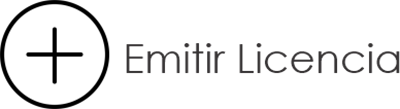
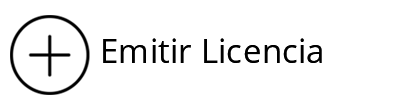
Ui principal (#2)
* Panel tareas rediseñado

* Panel inicio y estilo de windows

diff --git a/src/interfacesGraficas/PanelEmitirLicencia.java b/src/interfacesGraficas/PanelEmitirLicencia.java
@@ -1,6 +1,7 @@
 package interfacesGraficas;
 
 import java.awt.CardLayout;
+import java.awt.Color;
 import java.awt.Dimension;
 import java.awt.Font;
 import java.awt.GridBagConstraints;
@@ -13,6 +14,7 @@ import java.awt.event.MouseAdapter;
 import java.awt.event.MouseEvent;
 import java.util.List;
 
+import javax.swing.ButtonModel;
 import javax.swing.JButton;
 import javax.swing.JComboBox;
 import javax.swing.JFrame;
@@ -24,6 +26,9 @@ import javax.swing.JTable;
 import javax.swing.JTextField;
 import javax.swing.ListSelectionModel;
 import javax.swing.SwingUtilities;
+import javax.swing.event.ChangeEvent;
+import javax.swing.event.ChangeListener;
+
 import auxiliares.GestorBaseDeDatos;
 import auxiliares.GestorDeLicencia;
 import auxiliares.TablaContribuyentes;
@@ -107,6 +112,7 @@ public class PanelEmitirLicencia extends JPanel {
 			this.buscarContribuyentes();
 		});
 		this.add(btnBuscar, gridConst);
+		
 
 		tabla = new JTable(tablaContribuyentes);
 		gridConst.gridy = 3;

diff --git a/src/interfacesGraficas/Principal.java b/src/interfacesGraficas/Principal.java
@@ -3,15 +3,24 @@ package interfacesGraficas;
 import java.awt.Dimension;
 import java.awt.Toolkit;
 import javax.swing.JFrame;
+import javax.swing.UIManager;
+import javax.swing.UnsupportedLookAndFeelException;
 import javax.swing.WindowConstants;
 
 public class Principal {
 
-	public static void main(String[] args) {
+	public static void main(String[] args) throws ClassNotFoundException, InstantiationException, IllegalAccessException, UnsupportedLookAndFeelException {
 
+		/*
+		 * CARGA EL ESTILO POR DEFECTO DEL SISTEMA
+		 * + INFO https://docs.oracle.com/javase/tutorial/uiswing/lookandfeel/plaf.html
+		 * */
+		UIManager.setLookAndFeel(UIManager.getSystemLookAndFeelClassName());
+		
 		javax.swing.SwingUtilities.invokeLater(new Runnable() {
 			public void run() {
 				createAndShowGUI();
+				
 			}
 		});
 	}
